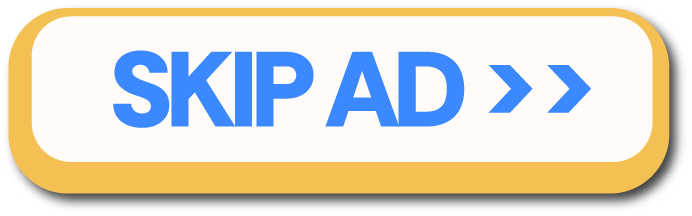
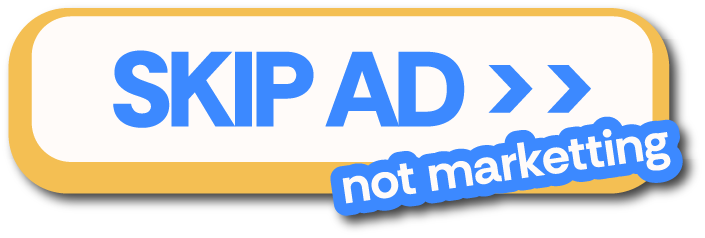
Update Asset 28 sticker and mobile shuffle z-index fix

diff --git a/index.html b/index.html
@@ -224,6 +224,7 @@
       background: none; border: none;
       padding: 10px;
       cursor: pointer;
+      z-index: 10001;
       transition: transform 0.15s ease;
       -webkit-tap-highlight-color: transparent;
     }
@@ -418,6 +419,7 @@
 
     /* Disable tagline click in sticker mode */
     body.sticker-mode .mobile-tagline-btn { pointer-events: none; }
+    body.sticker-mode .mobile-shuffle { position: fixed; }
     body.sticker-mode .desktop-tagline-btn { pointer-events: none; }
 
     /* ── When manifesto is active ── */
